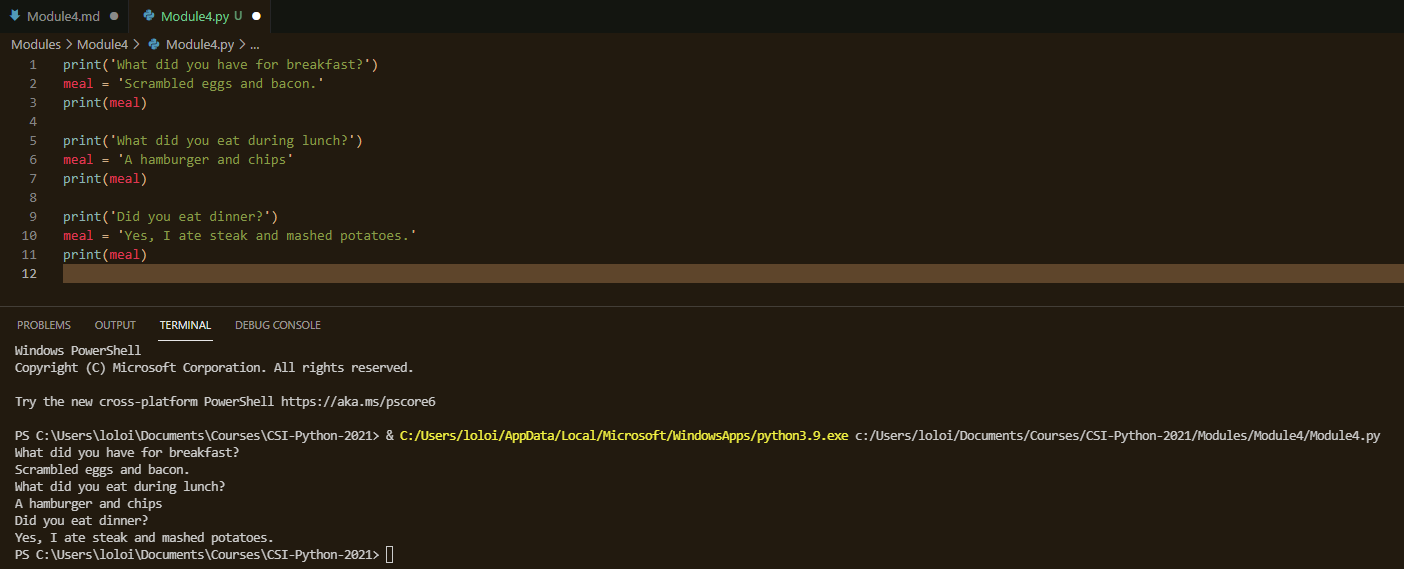
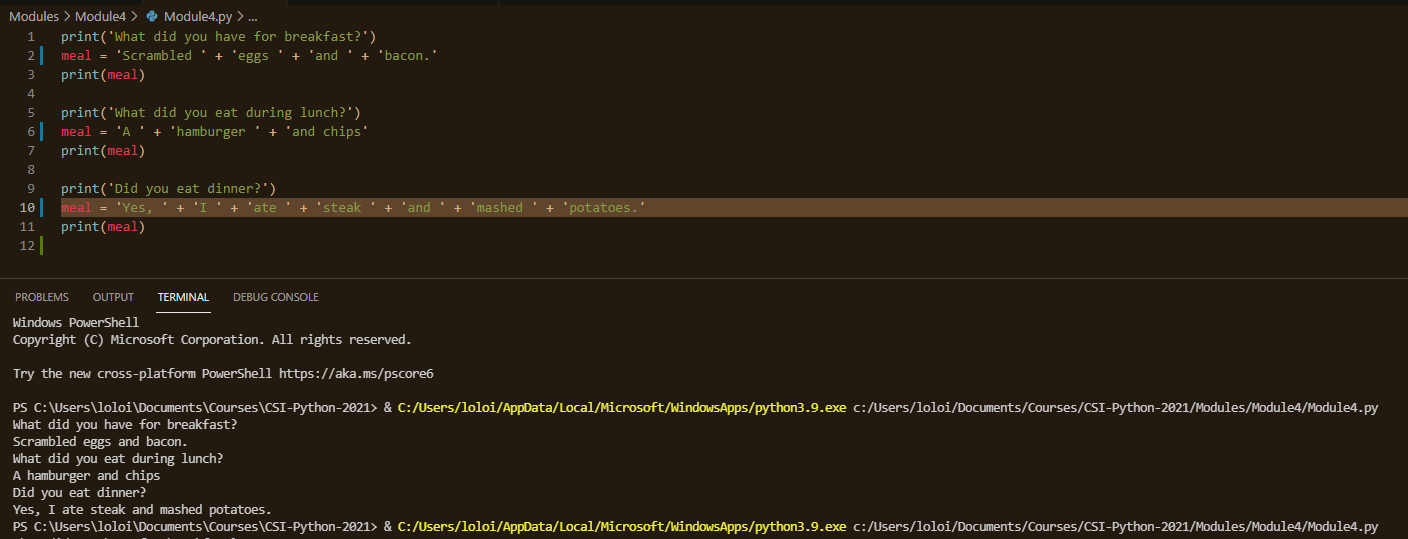
module 4

diff --git a/Modules/Module4/Module4.py b/Modules/Module4/Module4.py
@@ -1,11 +1,11 @@
 print('What did you have for breakfast?')
-meal = 'Scrambled eggs and bacon.'
+meal = 'Scrambled ' + 'eggs ' + 'and ' + 'bacon.'
 print(meal)
 
 print('What did you eat during lunch?')
-meal = 'A hamburger and chips'
+meal = 'A ' + 'hamburger ' + 'and chips'
 print(meal)
 
 print('Did you eat dinner?')
-meal = 'Yes, I ate steak and mashed potatoes.'
+meal = 'Yes, ' + 'I ' + 'ate ' + 'steak ' + 'and ' + 'mashed ' + 'potatoes.'
 print(meal)

diff --git a/Modules/Module4/Module4.md b/Modules/Module4/Module4.md
@@ -157,6 +157,8 @@ https://www.w3schools.com/python/python_ref_string.asp
 How do you find the length of a string?
 Which code returns the length of the string s0:
 
+
+
 s0 = "What is my length? Store it as a number in a variable."
 
  - Answer:
@@ -180,6 +182,7 @@ https://codingbat.com/python/String-1
 
 Type down any class notes below this sentence:
 
+        Variables cannot start with numbers.
 
 
 Lackluster responses may result in point deductions.
